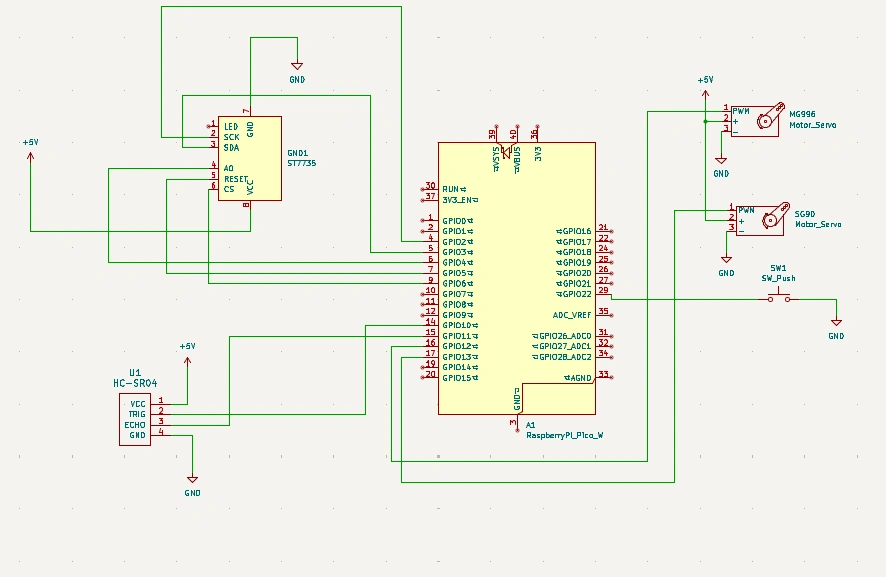
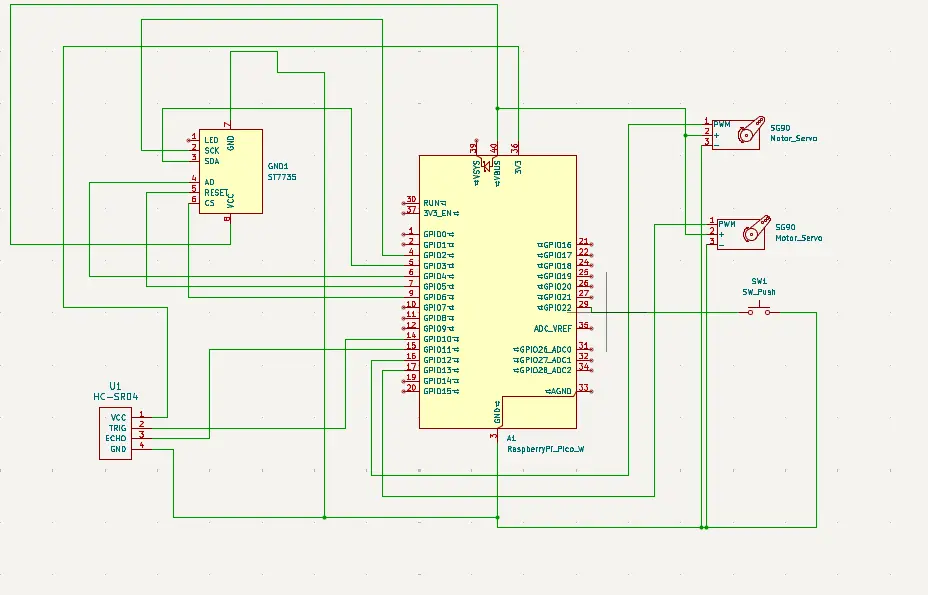
new file:   versioned_docs/version-fils_en/project/2025/eduard.purcarescu/hardware1.webp 	new file:   versioned_docs/version-fils_en/project/2025/eduard.purcarescu/hardware2.webp 	modified:   versioned_docs/version-fils_en/project/2025/eduard.purcarescu/index.md 	modified:   versioned_docs/version-f

Changed region(s): [[0.0, 0.0, 0.9447, 0.9047], [0.9142, 0.5615, 0.9447, 0.5927]]

diff --git a/website/versioned_docs/version-fils_en/project/2025/eduard.purcarescu/index.md b/website/versioned_docs/version-fils_en/project/2025/eduard.purcarescu/index.md
@@ -27,22 +27,25 @@ Since I was little, I've always liked shooting games and I can say I wanted to d
 ### Week 28 April - 4 May
 Started working on the documentation for the project. I bought every necessary component and started to connect them on the breadboard, in order to be able to make the schematics and understand how they interact with eachother.
 ### Week 5-11 May
-
+I began assembling all the components. I started also to look into the programming part, what features need to be implemented and I also 3D printed the structure.
 ### Week 12-18 May
-
+The exterior design is finished and fully assembled. I continue making progress with the software milestone in order to interconnect all the parts' functions.
 ### Week 19-25 May
 
 
 ## Hardware
 1. Raspberry Pi Pico 2W
 2. Micro servomotor
-3. Metallic servomotor
+3. Micro servomotor
 4. Ultrasonic sensor
 5. LCD display
 6. Push button
 7. Jumper wires
 8. Breadboard
 9. Resistors
+
+![Hardware_Photo1](./hardware2.webp)
+![Hardware_Photo2](./hardware1.webp)
 
 ### Schematics
 
@@ -54,7 +57,7 @@ Started working on the documentation for the project. I bought every necessary c
 | [Raspberry Pi Pico 2W](https://www.raspberrypi.com/documentation/microcontrollers/pico-series.html) | The microcontroller | [40 RON](https://www.optimusdigital.ro/en/raspberry-pi-boards/13327-raspberry-pi-pico-2-w.html?search_query=raspberry+pi+pico+2w&results=36) |
 | [Debug probe](https://www.raspberrypi.com/documentation/microcontrollers/debug-probe.html) | Debug | [66 RON](https://www.optimusdigital.ro/en/accesories/12777-raspberry-pi-debug-probe.html?search_query=debug+probe&results=8) |
 | [SG90](http://www.ee.ic.ac.uk/pcheung/teaching/DE1_EE/stores/sg90_datasheet.pdf) | Servomotor | [12 RON](https://www.optimusdigital.ro/en/servomotors/2261-micro-servo-motor-sg90-180.html?search_query=sg90&results=11) |
-| [MG996](https://www.electronicoscaldas.com/datasheet/MG996R_Tower-Pro.pdf?srsltid=AfmBOorsaz4OJjz0dZ1YPgTKOBqe_-QVdHqdaU_EkS7e0PzOBkQe_HNv) | Servomotor | [30 RON](https://www.optimusdigital.ro/en/servomotors/1520-mg996-digital-metal-servomotor-90.html) |
+| [SG90](http://www.ee.ic.ac.uk/pcheung/teaching/DE1_EE/stores/sg90_datasheet.pdf) | Servomotor | [12 RON](https://www.optimusdigital.ro/en/servomotors/2261-micro-servo-motor-sg90-180.html?search_query=sg90&results=11) |
 | Breadboard | Breadboard | [10 RON](https://www.optimusdigital.ro/en/breadboards/8-breadboard-hq-830-points.html) |
 | 1.44' LCD dislay | Display | [28 RON](https://www.optimusdigital.ro/en/lcds/870-144-lcd-module-128x128-px-red.html) |
 | Jumper wires | Wiring | [5 RON](https://www.optimusdigital.ro/en/wires-with-connectors/889-set-fire-tata-tata-10p-20-cm.html?search_query=jumper+wires&results=94) |
@@ -76,3 +79,8 @@ Started working on the documentation for the project. I bought every necessary c
 | [panic-probe](https://docs.rs/panic-probe/latest/panic_probe/) | Panic Handler | Displays panic messages via `defmt` for debugging |
 
 ## Links
+https://pico.implrust.com/ultrasonic/index.html
+https://www.raspberrypi.com/documentation/
+https://pmrust.pages.upb.ro/docs/fils_en/welcome
+
+
